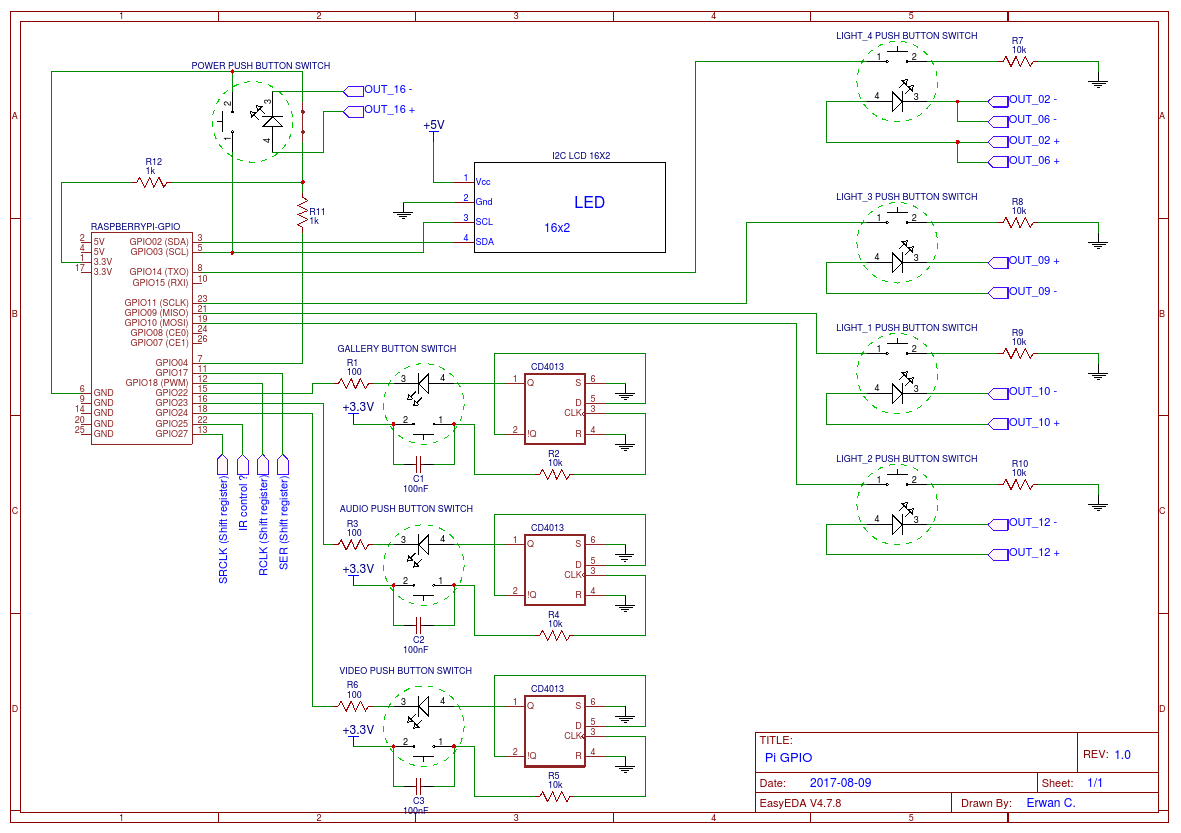
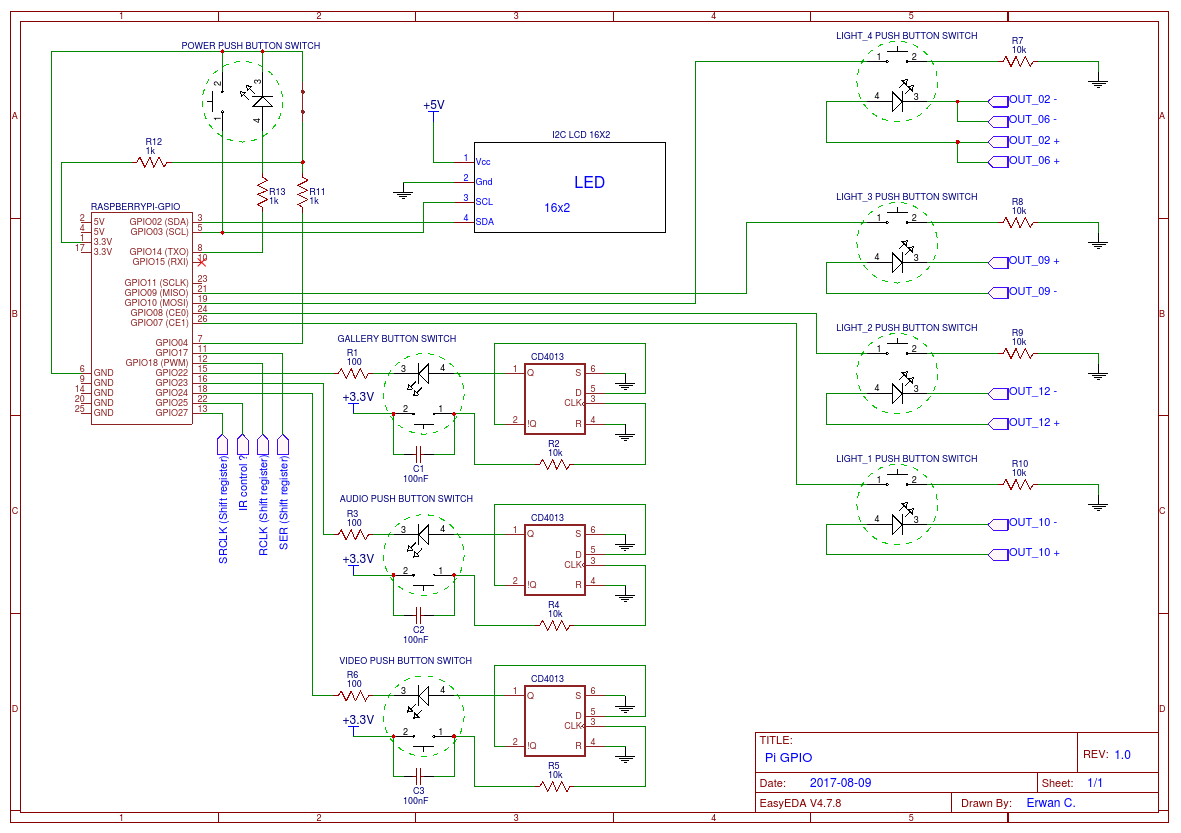
update gpio affectation (activation of uart for power led)

diff --git a/README.md b/README.md
@@ -4,11 +4,11 @@ Project for animating and lighting up a scale model (Revell Shelby GT500 2010) w
 # Power supply
 | Component | Voltage |
 | --------|---------|
-| Raspberry | 5V
-| Screen | 9V/12V
-| Electronic (with breadboard) | 9V
-| Smoke (not implemented) | 12V
-| Battery supply (not implemented) | 12V
+| Raspberry | 5V |
+| Screen | 9V/12V |
+| Electronic (with breadboard) | 9V |
+| Smoke (not implemented) | 12V |
+| Battery supply (not implemented) | 12V |
 
 # GPIO Mapping
  BCM | Cobbler Pin | Function |
@@ -21,8 +21,8 @@ Project for animating and lighting up a scale model (Revell Shelby GT500 2010) w
 | gpio 09 (SPI : MISO) | MISO | Light3 IN (signal) |
 | gpio 10 (SPI : MOSI) | MOSI | Light4 IN (signal) |
 | gpio 11 (SPI : CLK) | SCLK  | N/A |
-| gpio 14 (UART : TXD) | TXD | N/A (Power Led ?) |
-| gpio 15 (UART : RXD) | RXD | N/A |
+| gpio 14 (UART : TXD) | TXD | Power Led |
+| gpio 15 (UART : RXD) | RXD | NC (because of UART activated) |
 | gpio 17 | P0  | Shift register SDI |
 | gpio 18 (PWM) | P1 | Shift register RCLK |
 | gpio 22 | P3 | Gallery IN (signal) |
@@ -34,22 +34,22 @@ Project for animating and lighting up a scale model (Revell Shelby GT500 2010) w
 # Shift register '74HC595' Mapping
 | bit | Function of led | Nb of leds |
 | --------|---------|-------|
-| 01 | head left position/turn indicator | (x1)
-| 02 | tail left turn indicator #1 | (x1)
-| 03 | tail left turn indicator #2 | (x1)
-| 04 | tail left turn indicator #3 | (x1)
-| 05 | head right position/turn indicator | (x1)
-| 06 | tail right turn indicator #1 | (x1)
-| 07 | tail right turn indicator #2 | (x1)
-| 08 | tail right turn indicator #3 | (x1)
-| 09 | fog lights | (x2)
-| 10 | lateral position lights | (x4)
-| 11 | tail light | (x6)
-| 12 | head lights | (x2)
-| 13 | rear license plate | (x2)
-| 14 | dashboard    | (x2)
-| 15 | roof light   | (x1)
-| 16 | Power light (system)| (x1)
+| 01 | head left position/turn indicator | (x1) |
+| 02 | tail left turn indicator #1 | (x1) |
+| 03 | tail left turn indicator #2 | (x1) |
+| 04 | tail left turn indicator #3 | (x1) |
+| 05 | head right position/turn indicator | (x1) |
+| 06 | tail right turn indicator #1 | (x1) |
+| 07 | tail right turn indicator #2 | (x1) |
+| 08 | tail right turn indicator #3 | (x1) |
+| 09 | fog lights | (x2) |
+| 10 | lateral position lights | (x4) |
+| 11 | tail light | (x6) |
+| 12 | head lights | (x2) |
+| 13 | rear license plate | (x2) |
+| 14 | dashboard    | (x2) |
+| 15 | roof light   | (x1) |
+| 16 | N/A| N/A |
 
 # Wiring
 
